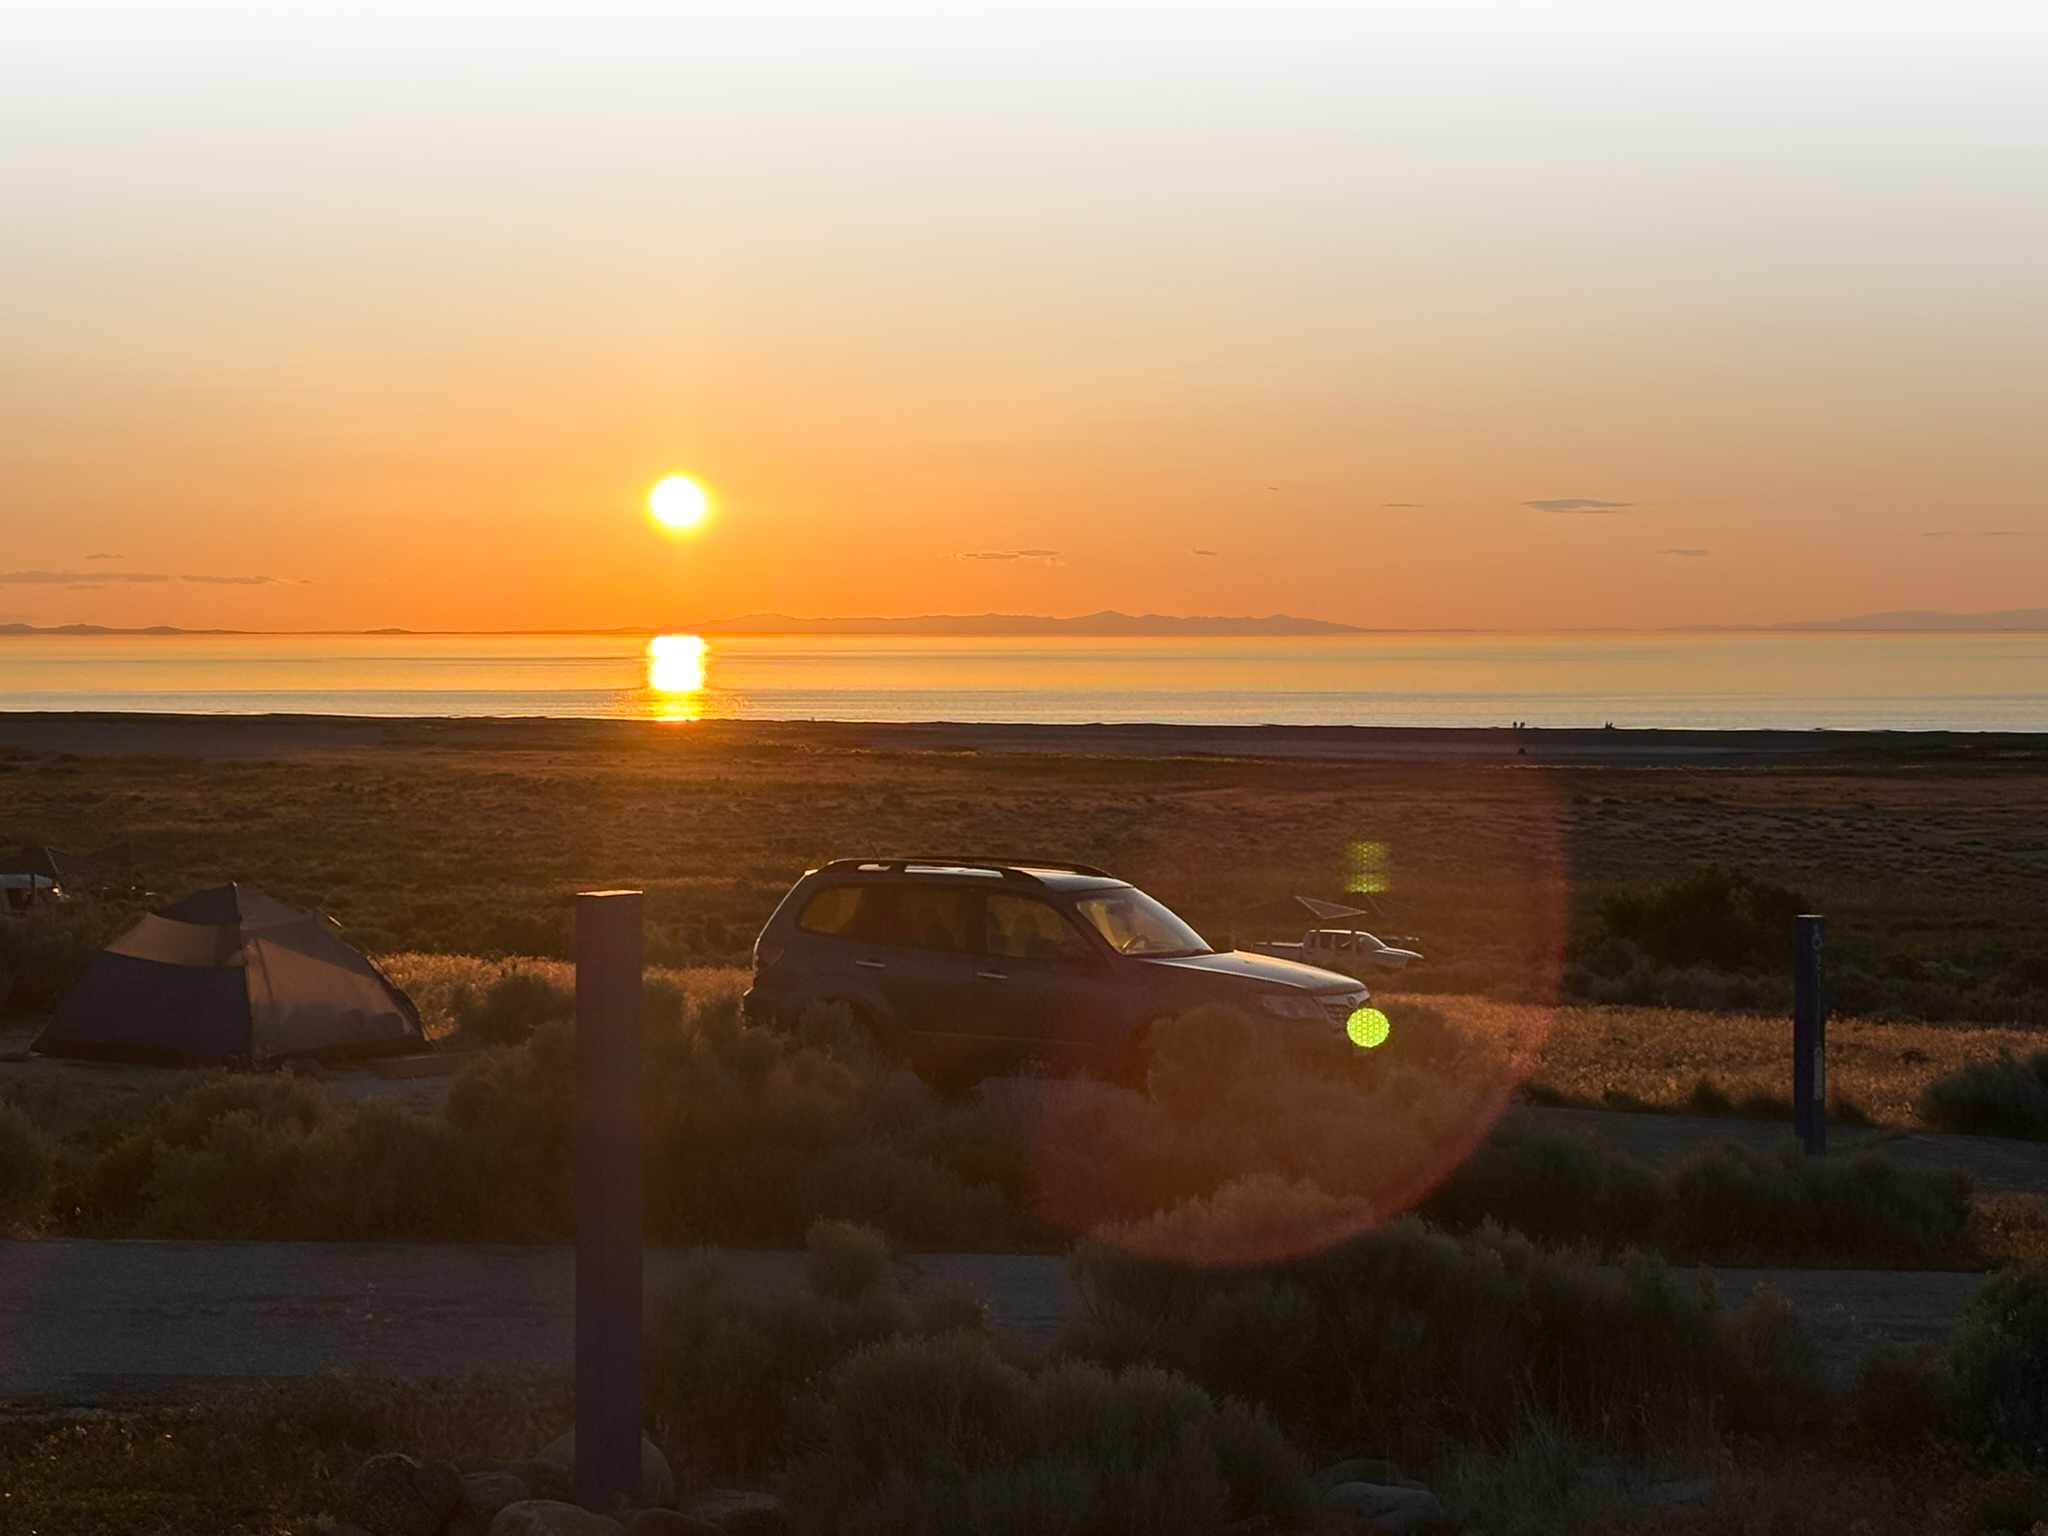
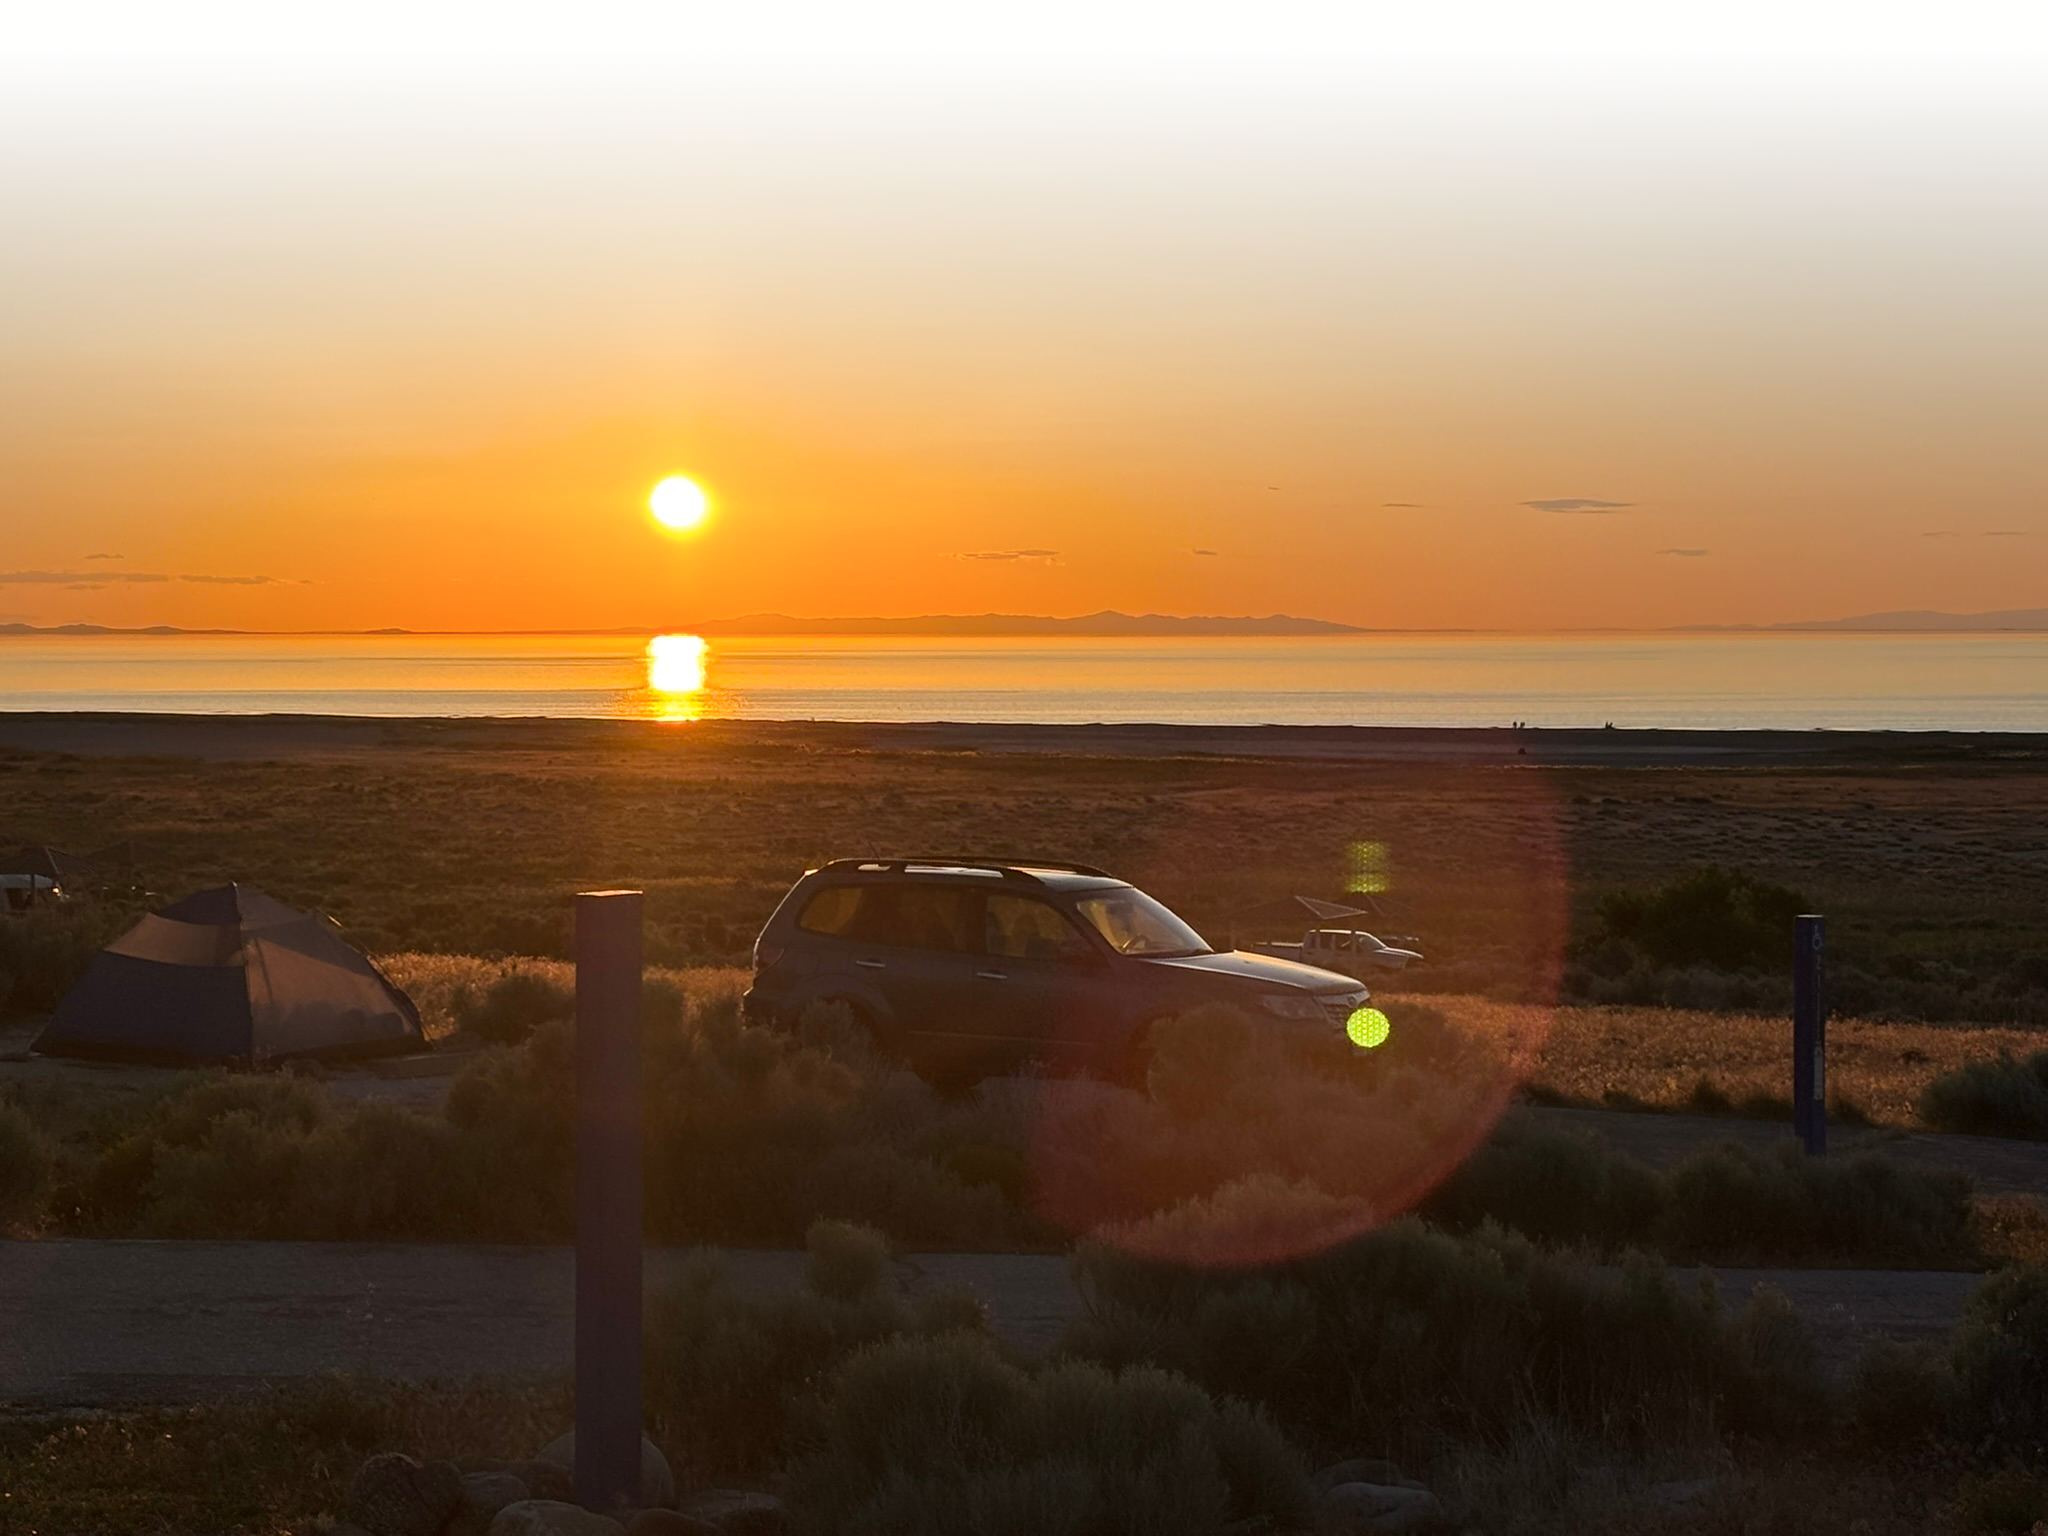
messing with svg patterns

Changed region(s): [[0.0, 0.25, 0.6562, 0.4688]]

diff --git a/src/styles/global.css b/src/styles/global.css
@@ -93,3 +93,15 @@ h1 {
 .header-text-shadow {
   text-shadow: 0 0 12px rgba(0,0,0,0.65), 0 0 24px rgba(0,0,0,0.40);
 }
+
+/* Tiled n8 logo background using only CSS + the short logo SVG */
+.bg-n8-pattern {
+  background-image: linear-gradient(rgba(255, 255, 255, 0.9), rgba(255, 255, 255, 0.9)), url("/fat-logo-offset-rows copy.svg");
+  background-repeat: repeat;
+  /* Increase tile height slightly above logo height to add spacing between rows */
+  background-size: auto 128px;
+}
+
+:global(.dark) .bg-n8-pattern {
+  background-image: linear-gradient(rgba(15, 23, 42, 0.9), rgba(15, 23, 42, 0.9)), url("/fat-logo-offset-rows copy.svg");
+}
